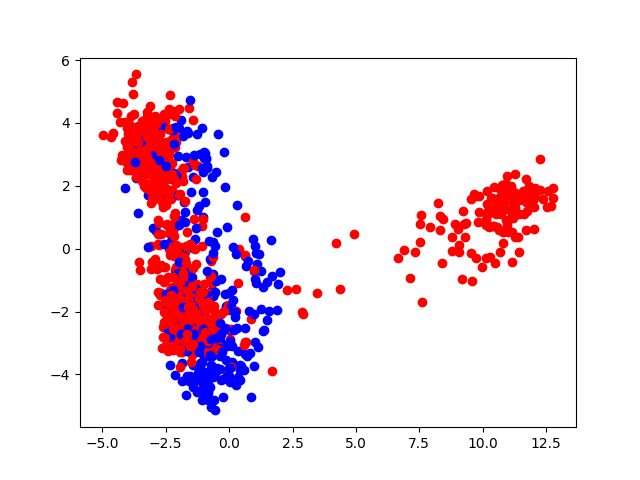
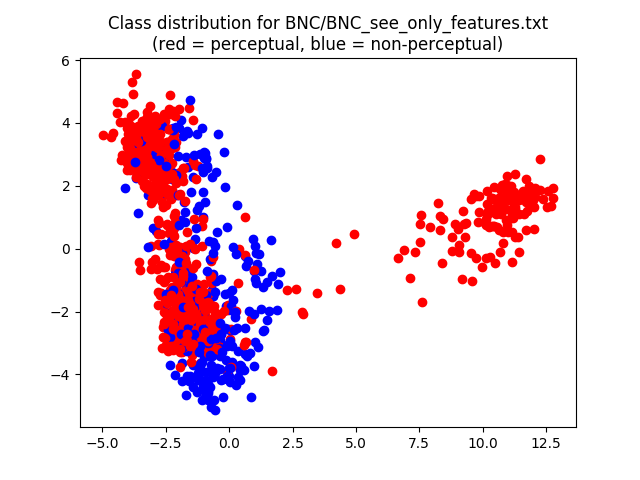
Figures with captions

Changed region(s): [[0.1562, 0.0312, 0.875, 0.125]]

diff --git a/data/BNC-acprose/find_acprose.py b/data/BNC-acprose/find_acprose.py
@@ -2,12 +2,31 @@
 
 from nltk.tokenize import word_tokenize
 import re, os
+import sys
 
-def cleanxml(raw_xml):
+word = sys.argv[1] #either 'see' or 'aware'
+
+see_words = ["see","seeing","sees","saw","seen"]
+aware_words = ["aware"]
+
+def cleanxml(raw_xml,word):
+    if word == "see":
+        words = see_words
+    else:
+        words = aware_words
     cleanr = re.compile('<.*?>')
     cleantext = re.sub(cleanr, '', raw_xml)
-    cleantext = ' '.join(word_tokenize(cleantext))
-    return cleantext.lower()
+    tokens = word_tokenize(cleantext)
+    #cleantext = ' '.join(word_tokenize(cleantext))
+    keep = False
+    for t in tokens:
+        if t in words:
+            keep = True
+            break
+    if keep:
+        return cleantext
+    else:
+        return ""
 
 def find_academic(filename):
     trigger = False
@@ -17,7 +36,9 @@ def find_academic(filename):
             trigger = True
         if trigger:
             l = l.rstrip('\n')
-            print(cleanxml(l))
+            l = cleanxml(l,word)
+            if l != "":
+                print(l)
         if '</wtext>' in l:
             trigger = False
 

diff --git a/annotation/viz.py b/annotation/viz.py
@@ -37,14 +37,18 @@ def compute_PCA(m,dim):
 
 
 def draw_plot(features,annots):
+    txt = "Class distribution for "+sys.argv[1]+"\n(red = perceptual, blue = non-perceptual)"
+    fig = plt.figure()#num=0,figsize=(8.27, 11.69), dpi=300)
+    ax  = fig.add_subplot(1, 1, 1)
+    ax.set_title(txt)
     for i in range(len(annots)):
         if annots[i] == 'p':
             plt.plot(features[i][0],features[i][1],'o',color='red')
         else:
             plt.plot(features[i][0],features[i][1],'o',color='blue')
-    #filename = vatdir+".summary."+locus+".png" if locus else vatdir+".summary.png"
-    #plt.savefig(join("./img",filename.replace("vats/","")))
-    plt.show()    
+    filename = sys.argv[2]
+    plt.savefig(filename)
+    #plt.show()    
 
 
 features, annots = read_features(sys.argv[1])

diff --git a/README.md b/README.md
@@ -13,6 +13,6 @@ The study is specifically focused on lexical entries *see* and *aware*. Usage sa
 
 In addition to the annotation, the directory contains the contextualised vectors for *see* and *aware*, as obtained through BERT Base, for each annotated sentence. The images below show the class distribution for each corpus, after reducing the BERT vectors to 2D with PCA.
 
-<img src="https://github.com/minimalparts/Perception/blob/master/annotation/BNC/BNC_see.png" style=" width:100px ; " />
-<img src="https://github.com/minimalparts/Perception/blob/master/annotation/SEP/SEP_see.png" style=" width:100px ; " />
+<img src="https://github.com/minimalparts/Perception/blob/master/annotation/BNC/BNC_see.png" width="200" />
+<img src="https://github.com/minimalparts/Perception/blob/master/annotation/SEP/SEP_see.png" width="200" />
 
